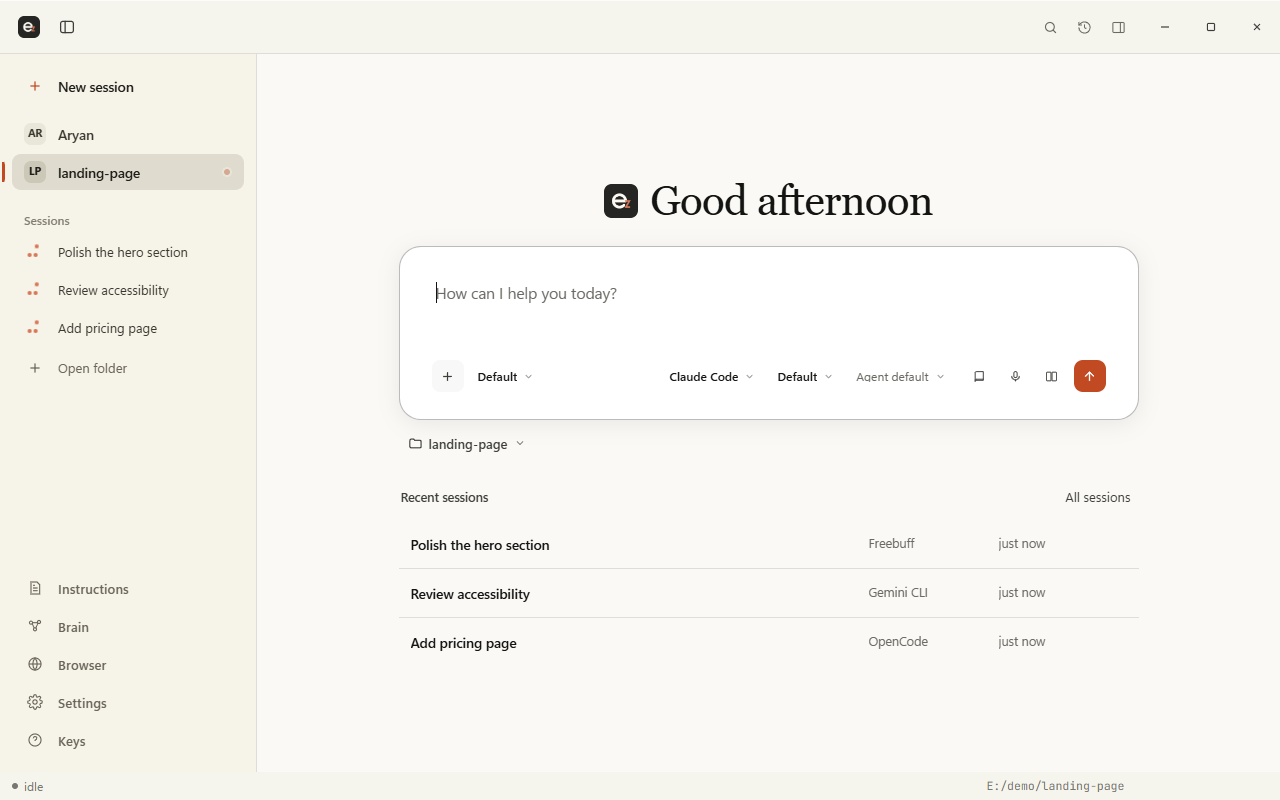
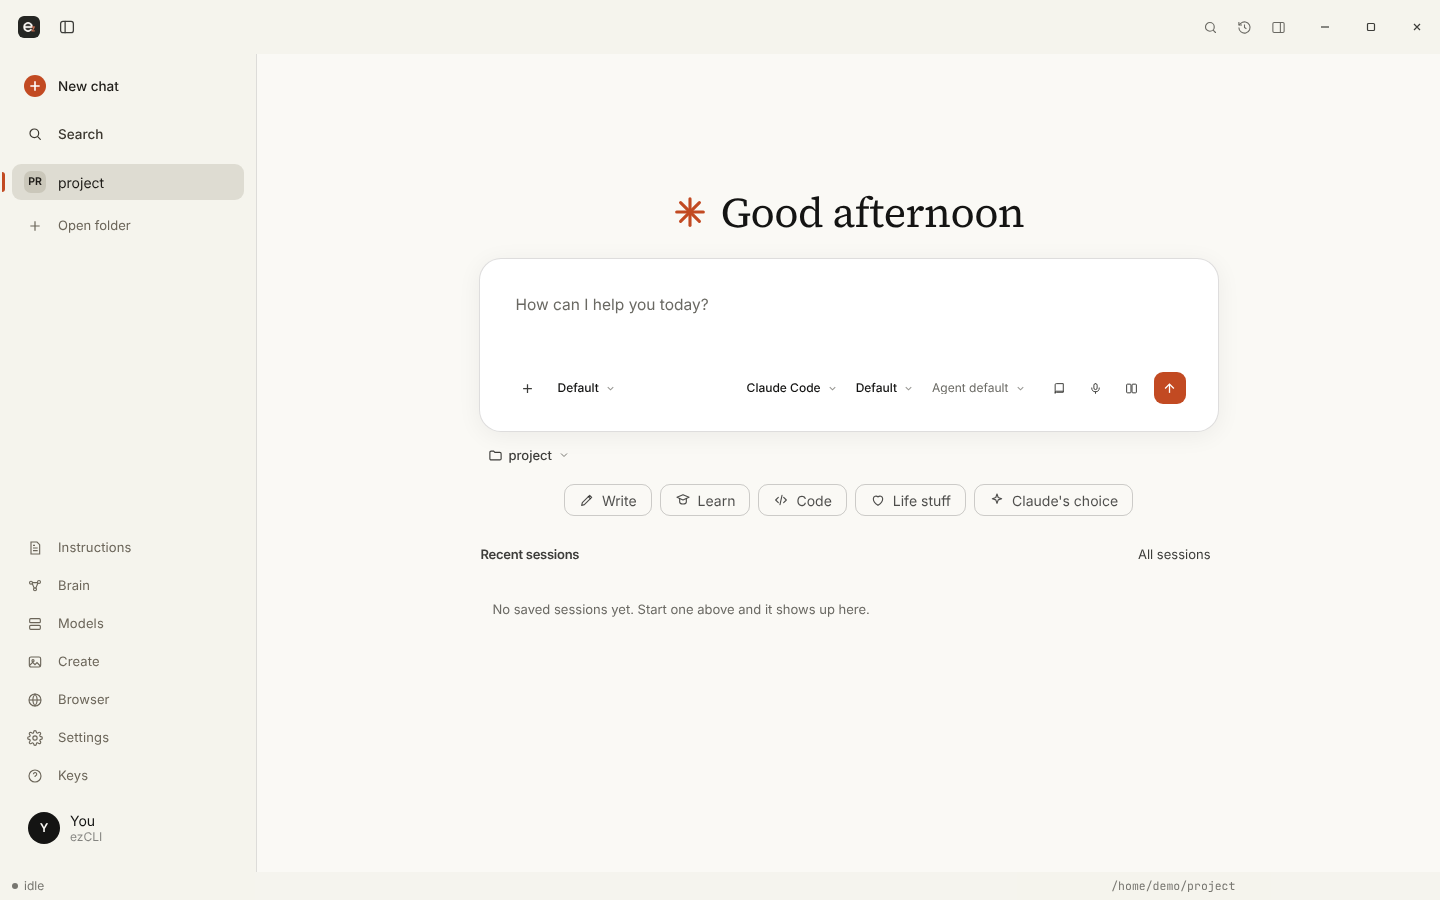
README: fresh screenshots from demo data, a Create screenshot and a 5.12 to 5.15.7 changelog (#65)
Claude-Session: https://claude.ai/code/session_01RMR7EQuT1HRLh5esysecyH

diff --git a/README.md b/README.md
@@ -23,6 +23,8 @@ prompt on several agents at once.
 
 ![A live session with the file explorer docked beside it](docs/screenshot-session.png)
 
+![Create: describe a picture and ezCLI makes it on this computer; agents can do the same in a chat](docs/screenshot-create.png)
+
 ![Team chat: several agents working together in one conversation](docs/screenshot-team.png)
 
 ![Compare mode: one prompt sent to three agents](docs/screenshot-compare.png)
@@ -49,6 +51,11 @@ prompt on several agents at once.
 - **A transparent terminal.** The terminal sits directly on the window, in dark ink on a
   light theme and light ink on a dark one. Dark glass and Solid are in Settings, with the
   JetBrains Mono font, line spacing and cursor shape.
+- **Pictures and video, made on your computer.** The Create button (and the `create_image`,
+  `create_video` and `create_status` tools every agent that takes MCP gets, free ones too) make
+  pictures and short clips with ComfyUI, nothing uploaded and no account. A finished picture or
+  clip appears right in the chat with a Show in folder link. ezCLI only downloads ComfyUI or a
+  model after you press the button.
 - **Settings with a section list**, an editor for the project's `CLAUDE.md`, `AGENTS.md` or
   `GEMINI.md`, and menus, dialogs and toasts in one consistent style.
 
@@ -184,6 +191,75 @@ catalog entry.
 ## Changelog
 
 Every release, newest first.
+
+### New in 5.15.7
+
+- **One failed background task no longer breaks the rest of the app.** A panic in one thread used
+  to make every later command that touched the same list or map fail too. Those locks now recover.
+- **A missing CLI says how to fix it.** If an agent's command has gone missing by the time a
+  session starts, the message now names the CLI, gives the install command and says to use Reload
+  agents in Settings.
+- **Under the hood:** the file explorer moved out of `app.ts` into `src/features/explorer.ts`
+  (no change in how it works).
+
+### New in 5.15.6
+
+- **Antigravity CLI gets ezCLI's picture, video and web tools.** The CLI only reads tool servers
+  from a config file, so ezCLI writes one into the project's `.agents` folder for the session and
+  removes what it created when the session ends. Your own entries are kept and never overwritten.
+
+### New in 5.15.5
+
+- **OpenCode keeps its picture and video tools.** OpenCode 2 shares one background server between
+  sessions, which kept an old ezCLI address and refused connections (ECONNREFUSED). Sessions now
+  ask OpenCode for a private server, when your OpenCode supports it.
+
+### New in 5.15.4
+
+- **The sidebar stops saying "working" once a reply has finished**, and says it again when more of
+  a reply arrives.
+
+### New in 5.15.3
+
+- **Layout fixes found on a real PC:** thin scrollbars everywhere, a visible ring on the selected
+  colour swatch in dark themes, agent names in the Earlier list, and the footer buttons on one line.
+
+### New in 5.15.2
+
+- **Pictures and clips show in the chat.** What an agent makes with the picture and video tools
+  appears after its reply, with Show in folder. The first message you type reaches a CLI that is
+  still starting.
+
+### New in 5.15.1
+
+- **Home pickers show their full text**, and old sessions titled with a folder path now show the
+  agent's name.
+
+### New in 5.15.0
+
+- **The original interface is back**, with all its themes, accents and Liquid glass.
+- **Create: pictures and video made on this computer** with ComfyUI. ezCLI downloads ComfyUI and
+  the model files only after you press the button, and stops it when ezCLI quits. Agents can use
+  the same engine through the built-in `create_image`, `create_video` and `create_status` tools.
+
+### New in 5.14
+
+- **Continue on another free model.** When a free model runs out of usage, the same chat continues
+  on the next free one (never anything paid, at most four switches per chat). Turn it off in
+  Settings.
+- **VoiceStudio connector.** Settings can connect a VoiceStudio you already run, so agents can use it.
+
+### New in 5.13.0
+
+- **A Vite and TypeScript front end** with zero-flash chat drawing: a finished block of a streaming
+  reply is never redrawn.
+- **Local-model fixes:** a llama.cpp crash on the GPU restarts the same model on the CPU once, and
+  files that are not real GGUF models are left out of the list.
+
+### New in 5.12
+
+- **Local models** can use the web tools and the in-app browser, and the Models panel was polished.
+  Numbered lists with bullets under them no longer restart at 1 in chat.
 
 ### New in 2.1
 
